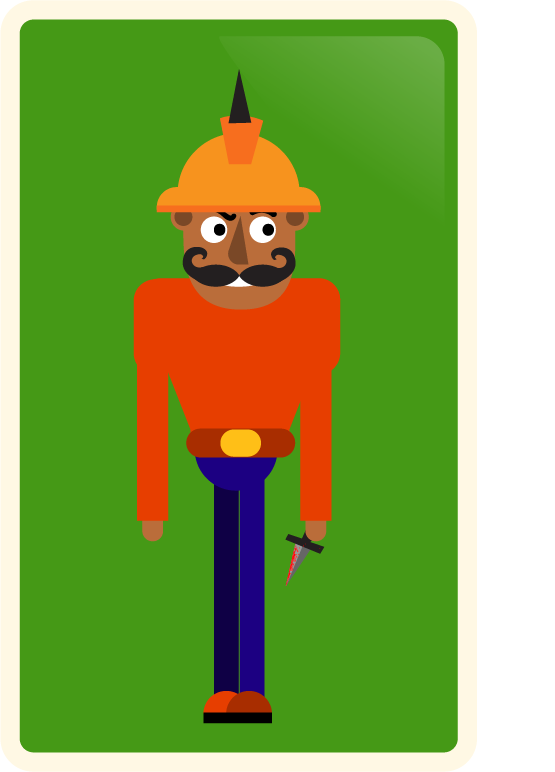
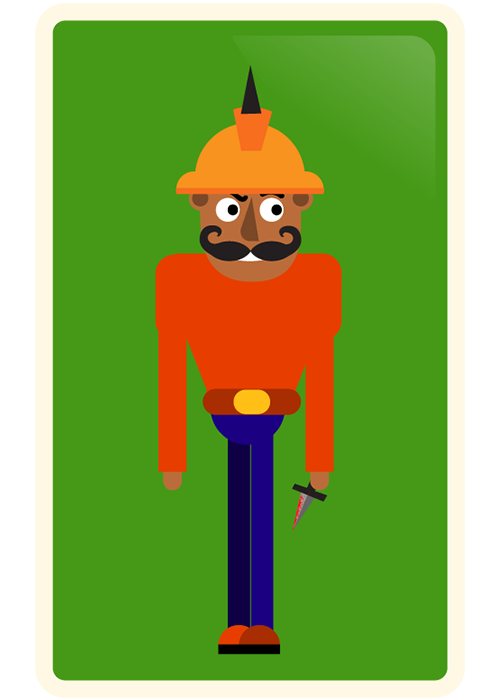
added Animation
Changed the loop default value to false in the P5 Play library

diff --git a/javascript/sketch.js b/javascript/sketch.js
@@ -9,26 +9,22 @@ var rgn;
 var hasGameStarted;
 var isCharacterChosen;
 
-
-var hTools = [];
-var zTools = [];
-var Tools = [];
-
 var zAudio, hAudio;
 var hrAudio, hpAudio, hsAudio;
 var zrAudio, zpAudio, zsAudio;
-var audioPlay;
+
+var hpCardAnimation, hrCardAnimation, hsCardAnimation;
+var zpCardAnimation, zrCardAnimation, zsCardAnimation;
+var playAnimation;
 
 function preload() {
-	// Preload all the tools
-	// Human Tools
-	for (var i = 0; i < 3; i++){
-        hTools [i] = loadImage("images/hTools/htool" + i + ".png");
-    }
-	// Zombie Tools
-	for (var i = 0; i < 3; i++){
-        zTools [i] = loadImage("images/zTools/ztool" + i + ".png");
-    }
+	// Preload all animationsthe
+	hpCardAnimation = loadAnimation('images/cards/hCard1.png','images/cards/hCard2.png','images/cards/hCard3.png', 'images/cards/hPaper.png');
+    hrCardAnimation = loadAnimation('images/cards/hCard1.png','images/cards/hCard2.png','images/cards/hCard3.png', 'images/cards/hRock.png');
+    hsCardAnimation = loadAnimation('images/cards/hCard1.png','images/cards/hCard2.png','images/cards/hCard3.png', 'images/cards/hScissor.png');
+    zpCardAnimation = loadAnimation('images/cards/zCard1.png','images/cards/zCard2.png','images/cards/zCard3.png', 'images/cards/zPaper.png');
+    zrCardAnimation = loadAnimation('images/cards/zCard1.png','images/cards/zCard2.png','images/cards/zCard3.png', 'images/cards/zRock.png');
+    zsCardAnimation = loadAnimation('images/cards/zCard1.png','images/cards/zCard2.png','images/cards/zCard3.png', 'images/cards/zScissor.png');
 	
 	// Load all sound files
     soundFormats('mp3', 'ogg', 'm4a');
@@ -49,7 +45,7 @@ function setup() {
     sButton = 0; // sButton is not created yet
     isCharacterChosen = 0; // Character not chosen
 	hasGameStarted = 0; // Game has not started
-	audioPlay = 0; // No audio has been played
+	playAnimation = 0; // No animation to be shown
 	
 	randomNumberGenerator();
 	
@@ -69,20 +65,42 @@ function setup() {
     line(x/2, y - buttonSize, x/2, y); // Center line
         
     // Buttons
-	// Human Button
     hButton = createImg('images/icons/human.png');
     hButton.size(buttonSize - 10, buttonSize - 10);
     hButton.position((x/4)-75, y - buttonSize + buttonMargin);
-	hButton.mousePressed(hFunction);
-
-	// Zombie Button	
+    hButton.mousePressed(hFunction);
+        
     zButton = createImg('images/icons/zombie.png');
     zButton.size(buttonSize - 20, buttonSize - 20);
     zButton.position((3*x/4)-75, y - buttonSize + buttonMargin);
-	zButton.mousePressed(zFunction);
+    zButton.mousePressed(zFunction);
 }
 function draw() {
-	// Do nothing
+	if ( playAnimation == 1){
+        fill(0);
+        rect(0,0,window.innerWidth,window.innerHeight-150);
+        animation(hrCardAnimation,500,520);
+    } else if ( playAnimation == 2){
+        fill(0);
+        rect(0,0,window.innerWidth,window.innerHeight-150);
+        animation(hpCardAnimation,500,520);
+    } else if ( playAnimation == 3){
+        fill(0);
+        rect(0,0,window.innerWidth,window.innerHeight-150);
+        animation(hsCardAnimation,500,520);
+    } else if ( playAnimation == 4){
+        fill(0);
+        rect(0,0,window.innerWidth,window.innerHeight-150);
+        animation(zrCardAnimation,500,520);        
+    } else if ( playAnimation == 5){
+        fill(0);
+        rect(0,0,window.innerWidth,window.innerHeight-150);
+        animation(zpCardAnimation,500,520);        
+    } else if ( playAnimation == 6){
+        fill(0);
+        rect(0,0,window.innerWidth,window.innerHeight-150);
+        animation(zsCardAnimation,500,520);        
+    }
 }
 function deviceShaken() {
     // If game has started
@@ -91,19 +109,35 @@ function deviceShaken() {
 		cButton.remove();
         if (isCharacterChosen == 1 ){
             if(rgn == 0) {
-				image(Tools[0],(x/2) - 155,((y - buttonSize)/2) - 250,309,500);
+                playAnimation = 1;
+                
             } else if(rgn == 1){
-                image(Tools[1],(x/2) - 155,((y - buttonSize)/2) - 250,309,500);
+                playAnimation = 2;
+                if (hpAudio.isPlaying() == 0) {
+                    hpAudio.play();
+                }
             } else if(rgn == 2){
-                image(Tools[2],(x/2) - 155,((y - buttonSize)/2) - 250,309,500);
+                playAnimation = 3;
+                if (hsAudio.isPlaying() == 0) {
+                    hsAudio.play();
+                }
             }
         } else if (isCharacterChosen == 2){
             if(rgn == 0) {
-                image(Tools[0],(x/2) - 155,((y - buttonSize)/2) - 250,309,500);
+                playAnimation = 4;
+                if (zrAudio.isPlaying() == 0) {
+                    zrAudio.play();
+                } 
             } else if(rgn == 1){
-                image(Tools[1],(x/2) - 155,((y - buttonSize)/2) - 250,309,500);
+                playAnimation = 5;
+                if (zpAudio.isPlaying() == 0) {
+                    zpAudio.play();
+                }
             } else if(rgn == 2){
-                image(Tools[2],(x/2) - 155,((y - buttonSize)/2) - 250,309,500);
+                playAnimation = 6;
+                if (zsAudio.isPlaying() == 0) {
+                    zsAudio.play();
+                }
             }
         }
     }
@@ -131,9 +165,7 @@ function gFuntion() {
 }
 function hFunction() {
 	// If character is not chosen, assign human tools to the Tools variable
-    if (isCharacterChosen == 0) {
-        Tools = hTools;
-		
+    if (isCharacterChosen == 0) {		
 		// Play audio
 		if (hAudio.isPlaying() == 0) {
 			hAudio.play();
@@ -152,8 +184,6 @@ function hFunction() {
 function zFunction() {
 	// If character is not chosen, assign zombie tools to the Tools variable
     if (isCharacterChosen == 0){
-        Tools = zTools;
-		
 		// Play audio
 		if (zAudio.isPlaying() == 0) {
 			zAudio.play();

diff --git a/libraries/p5/addons/p5.play.js b/libraries/p5/addons/p5.play.js
@@ -1,4 +1,4 @@
-/*
+/*
 p5.play
 by Paolo Pedercini/molleindustria, 2015
 http://molleindustria.org/
@@ -3373,9 +3373,9 @@ function Animation(pInst) {
   *
   * @property looping
   * @type {Boolean}
-  * @default true
+  * @default false
   */
-  this.looping = true;
+  this.looping = false;
 
   /**
   * True if frame changed during the last draw cycle
